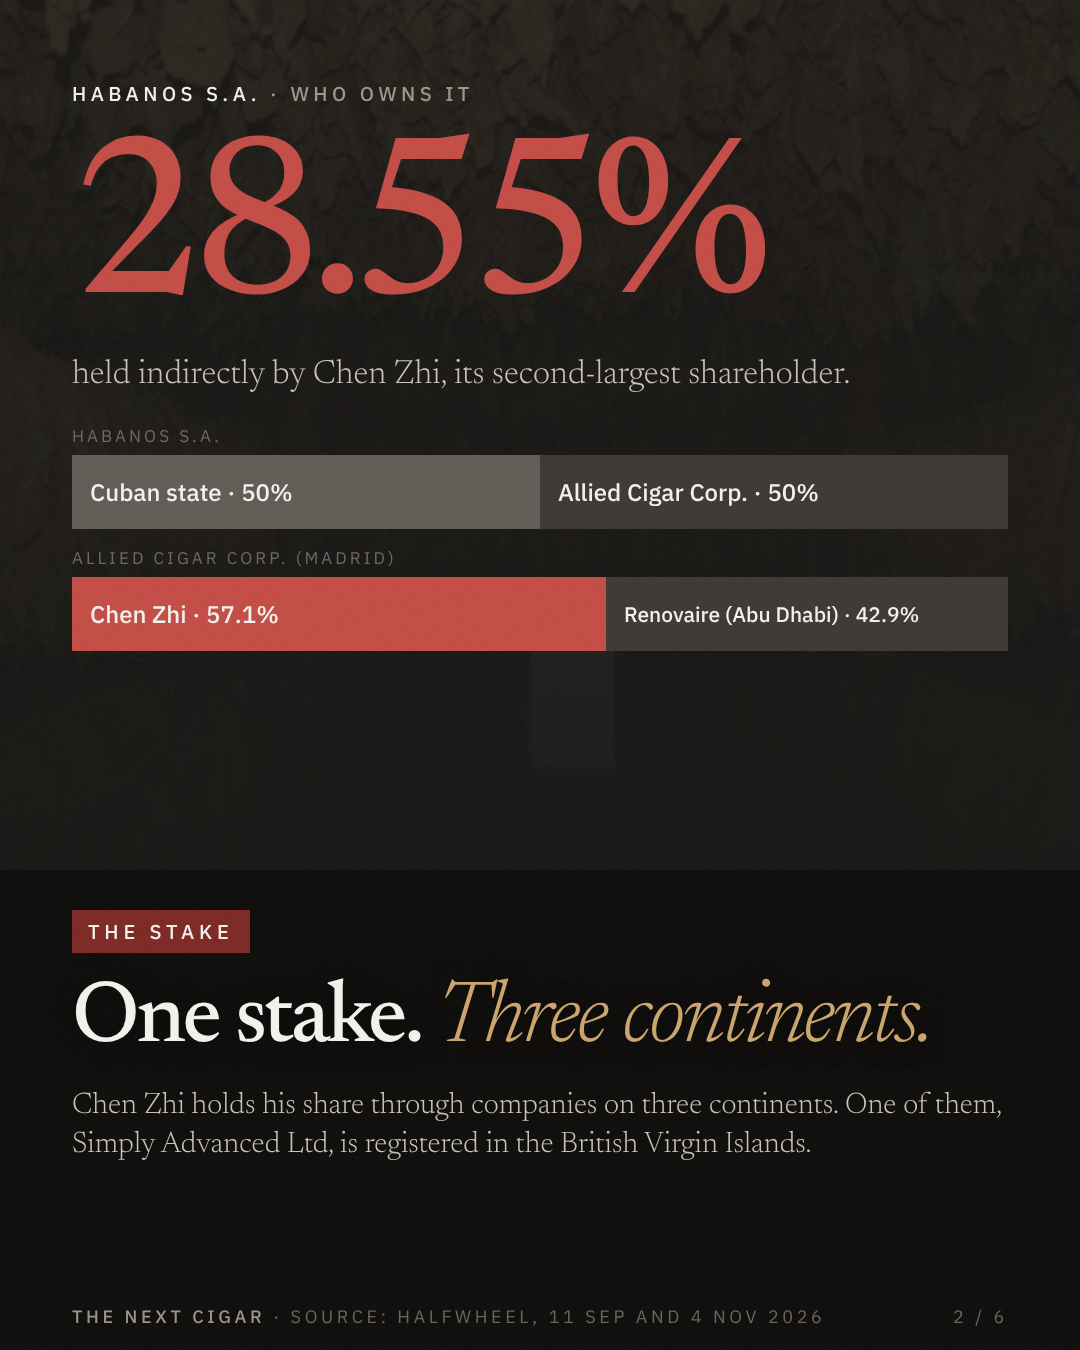
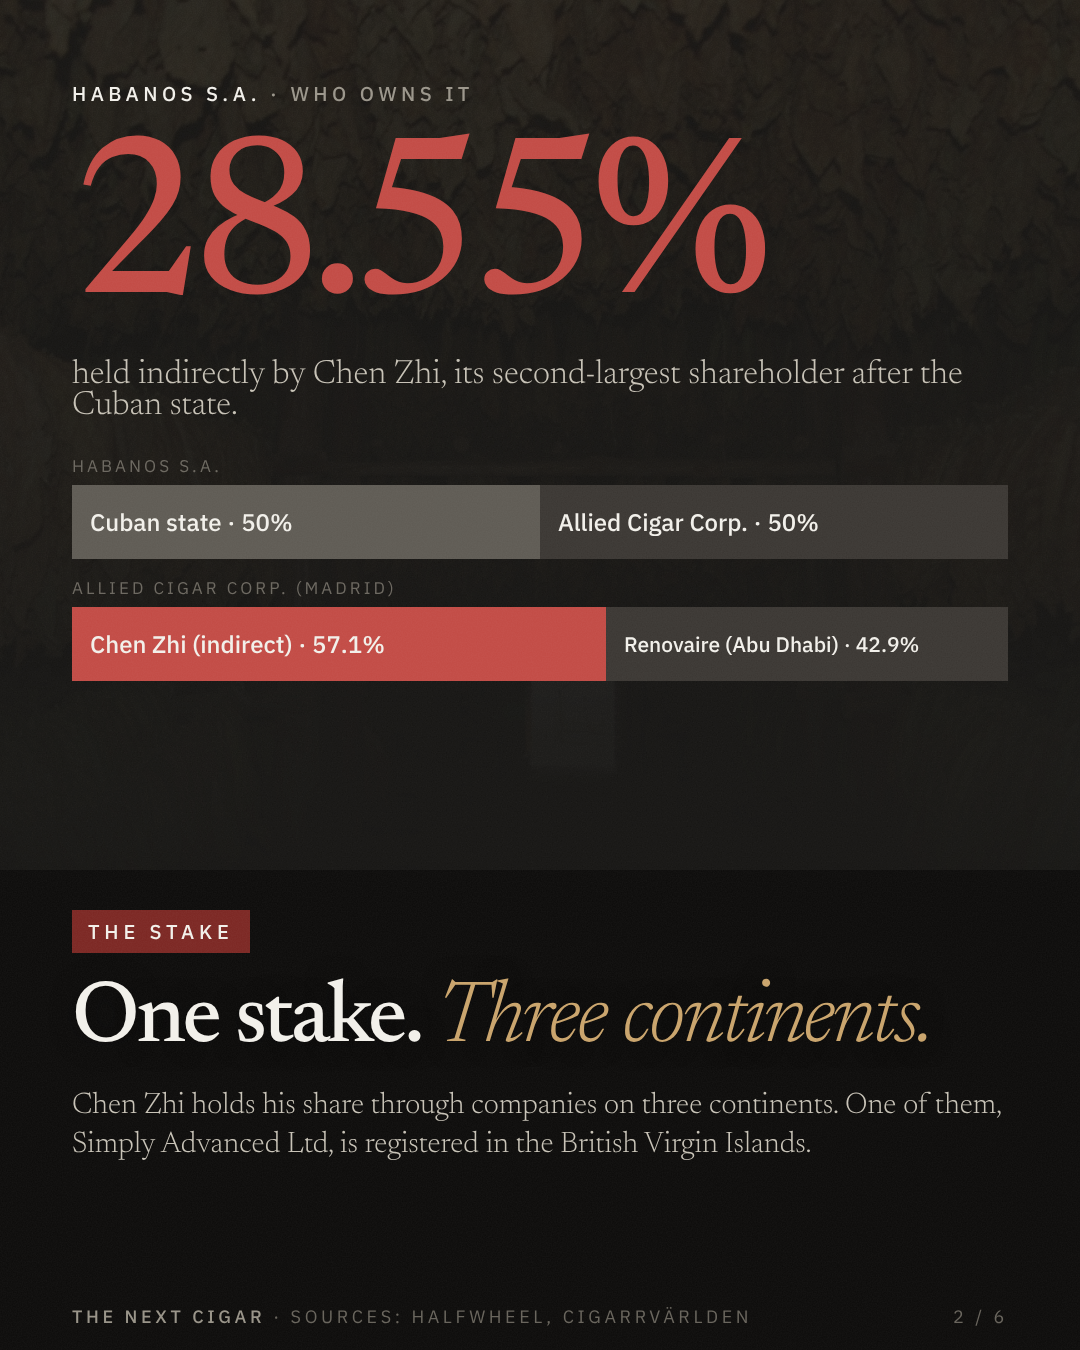
Carousel 12: fact-check corrections (slides 1-5, caption, double-check log)
Claude-Session: https://claude.ai/code/session_01NDc9TrKsSQw4dbaGwkoFWp

diff --git a/docs/social/carousels/12-bvi-court-habanos/caption.md b/docs/social/carousels/12-bvi-court-habanos/caption.md
@@ -7,13 +7,13 @@ Company and court news only. No cigar brands or products, no prices, no shops or
 
 ## Caption (paste)
 
-A judge in the British Virgin Islands says he will end the court-run liquidation of 30 companies linked to Chen Zhi. One of them holds his indirect 28.55% stake in Habanos S.A., the company that sells every Cuban cigar exported.
+A judge in the British Virgin Islands says he will end the court-run provisional liquidation of 30 companies linked to Chen Zhi. No order has been made yet. One of the companies holds his indirect 28.55% stake in Habanos S.A., the company that sells and distributes Cuban cigars worldwide.
 
-The sanctions on him stay. Europe's importers are watching: Germany has had no deliveries since September, and trade press warns banks may become more cautious, not less. Next hearing: 8–9 December.
+The sanctions on him stay. Europe's importers are watching: Germany has had no deliveries since September, and trade press warns banks may become more cautious, not less. Next hearing, provisionally: 8–9 December.
 
 Swipe for who owns what, what the judge said, and what happens next. Full report with every source: link in bio.
 
-Chen Zhi and the Prince Group deny the allegations against them.
+The Prince Group says Chen Zhi is innocent and denies the allegations.
 
 The Next Cigar is an independent paper published from Sweden. We don't sell tobacco, and no tobacco company pays us.
 
@@ -28,6 +28,9 @@ The Next Cigar is an independent paper published from Sweden. We don't sell toba
 4. The fear — Germany (insolvency opened 1 Nov), Spain (Treasury clearance), UK·US licences; Mimouni quote.
 5. What happens next — stay? control to Borrelli; sale?; 8–9 December.
 6. Full report — link in bio; independence line.
+
+## Double-check
+Independent fact-check on 5 Nov 2026 (fresh agent, every source opened). Fixed: slide 1 "says he will end the provisional liquidation", no order yet; slide 4 "sanctions licences" attributed to L'Amateur de Cigare, Spain tied to the EU sanctions; slide 5 Borrelli "whom they say Chen appointed", stay "intends to seek", sale approaches dated to May, 8–9 Dec provisional; caption "sells and distributes Cuban cigars worldwide".
 
 ## Fact check
 | Slide | Claim | Source |
